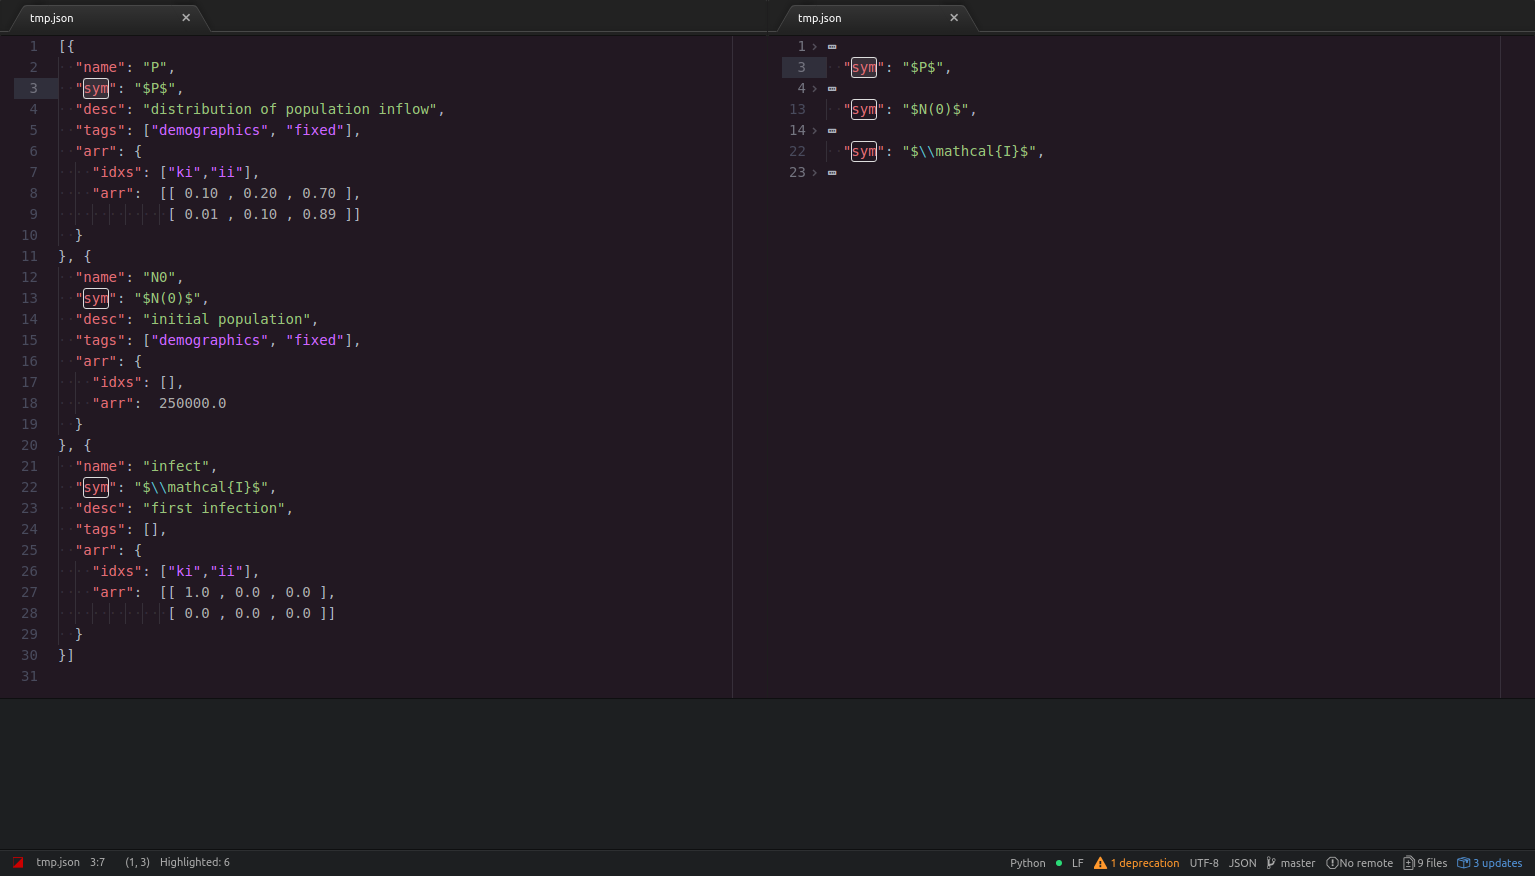
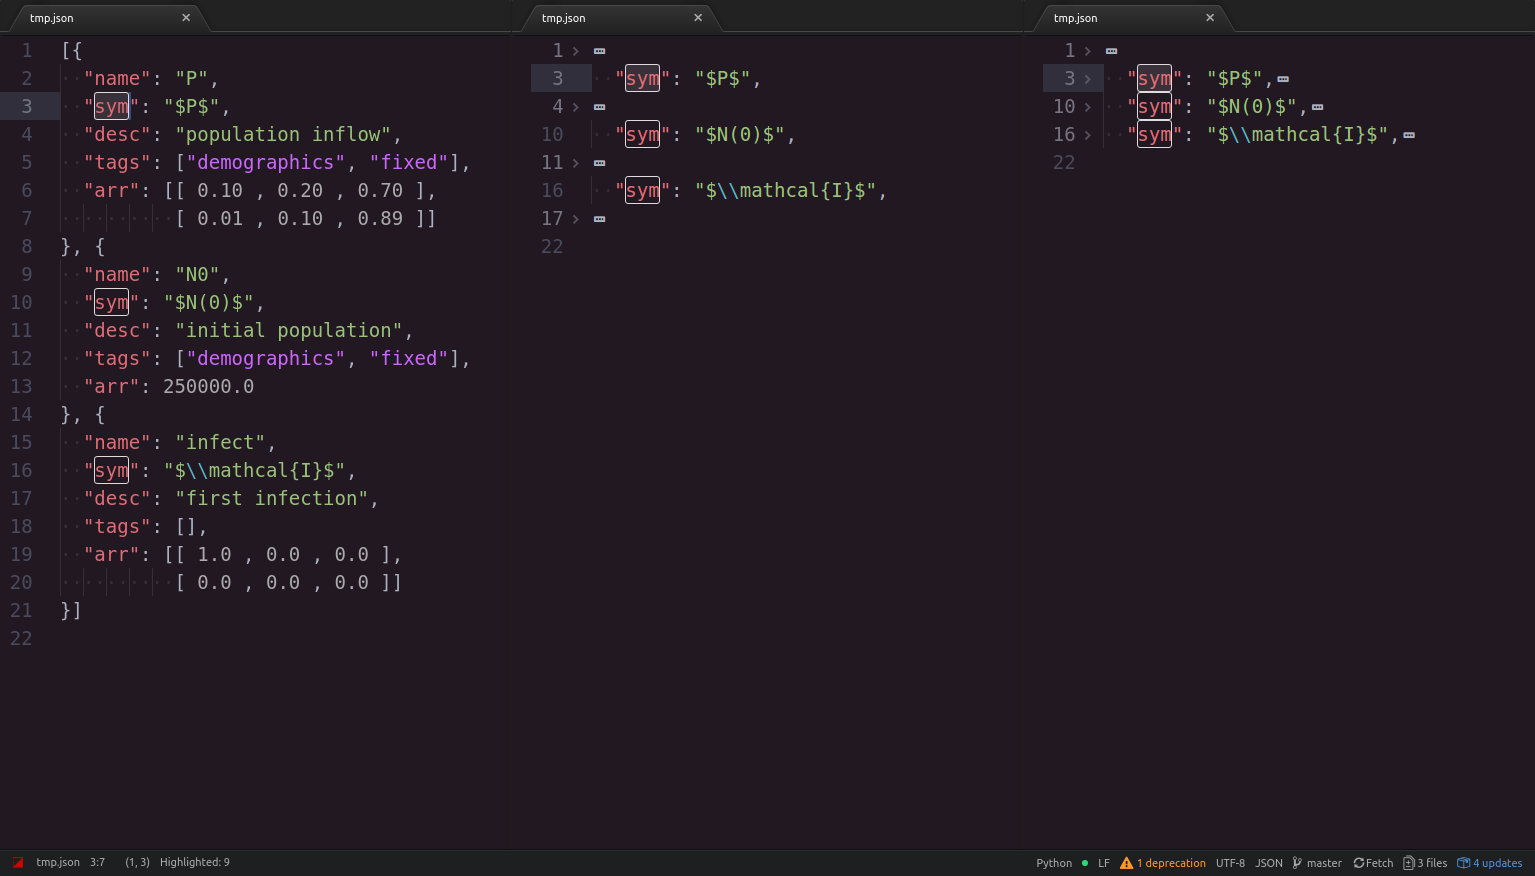
add cozy mode, update readme

diff --git a/README.md b/README.md
@@ -2,6 +2,8 @@
 
 Filter lines based on the current text selection (including multi-line selections)
 
+Image shows JSON with filter-lines: Original, Default, Cozy
+
 ![comparison](https://github.com/jessexknight/atom-filter-lines/blob/master/docs/img/comparison.png?raw=true)
 
 ## Keybinding:
@@ -10,17 +12,19 @@ Filter lines based on the current text selection (including multi-line selection
 
 ## Settings:
 
-TBD [ **Toggle** currently does nothing ]
+Setting [ default ]: _Description_
+
+- **Cozy** [ `false` ]: No gaps between filtered lines (default is one line)
 
 ## To Do:
 
 - [ ] Find-and-Replace like panel with:
   - [ ] RegExp support
   - [ ] Case support
-- [ ] Option to fold to zero lines instead of one (with `...`)
+- [x] Option to fold to zero lines instead of one (with `...`)
 - [ ] Option to expand children of all filtered lines (e.g. for editing a list of json objects)
 - [ ] Preserve pre-filter folding after toggle off
-- [ ] Relevant settings & hidden **Toggle** state
+- [x] hidden **Toggle** state
 
 ## Thanks
 
